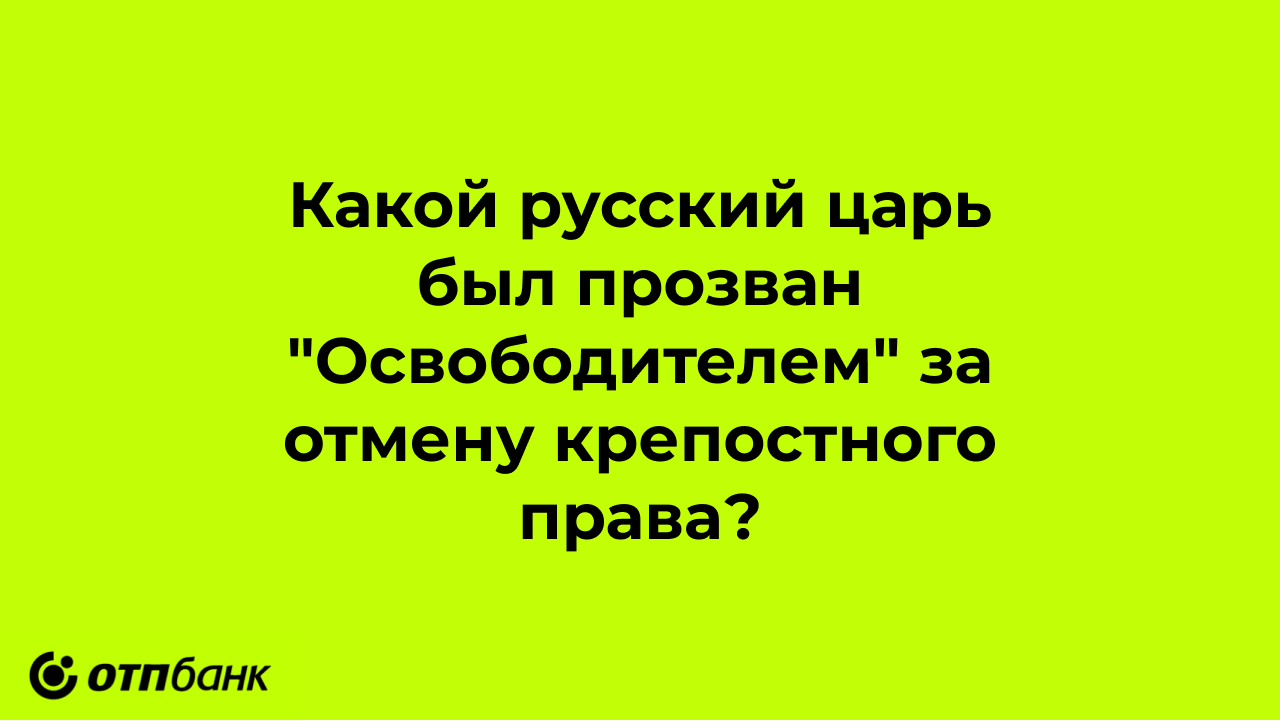
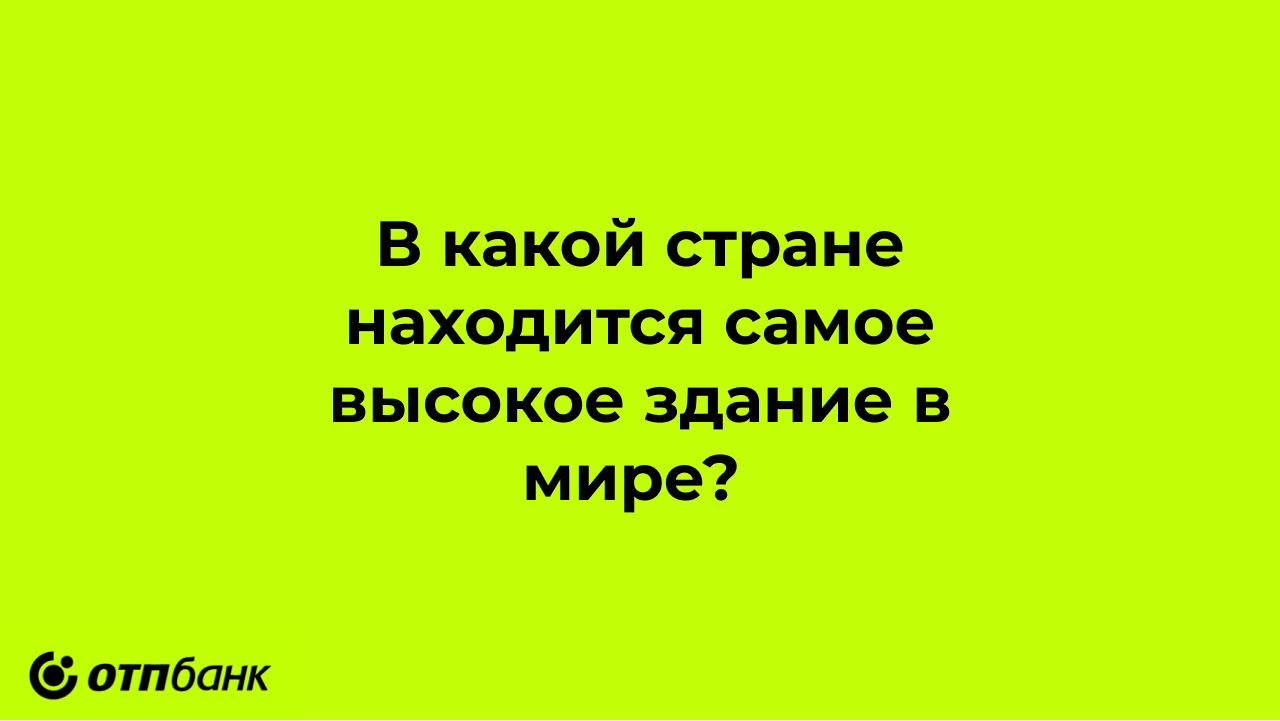
fix comments

Changed region(s): [[0.2188, 0.2441, 0.7812, 0.7628]]

diff --git a/handlers/quiz.py b/handlers/quiz.py
@@ -155,7 +155,7 @@ questions = [
                  image_url=FSInputFile('quizphoto/23.png'),
                  additional_url=FSInputFile('addphoto/23.png')),
     QuizQuestion("В какой стране находится самое высокое здание в мире?",
-                 [("Саудовская Аравия", 0), ("Дубай", 1), ("Китай", 0)],
+                 [("Саудовская Аравия", 0), ("ОАЭ", 1), ("Китай", 0)],
                  image_url=FSInputFile('quizphoto/24.png'),
                  additional_url=FSInputFile('addphoto/24.png')),
     QuizQuestion("Какой предмет хранила говорящая голова из поэмы «Руслан и Людмила»?",
@@ -225,14 +225,14 @@ async def process_step(message: Message, state: FSMContext, current_step: int, n
     else:
         await message.answer("Обрабатываем результаты ⏳", )
         database.record_completion(user_id=message.from_user.id, score=total_score)
-        await message.answer(f"Ваш результат: {total_score}", reply_markup=ReplyKeyboardRemove())
+        await message.answer(f"Ваш результат: {total_score} из 27", reply_markup=ReplyKeyboardRemove())
         # bot = Bot(TOKEN, parse_mode=ParseMode.HTML)
         # await bot.send_chat_action(chat_id=message.chat.id, action='upload_photo')
-        if total_score >= 12:
+        if total_score >= 22:
             await message.answer(f"{html.bold('Воу, а ты знаток!')} \nТак держать 😎")
-        elif 8 <= total_score <= 11:
+        elif 10 <= total_score <= 21:
             await message.answer(f"{html.bold('Очень неплохо!')} \n👍")
-        elif 4 <= total_score <= 7:
+        elif 4 <= total_score <= 9:
             await message.answer(f"{html.bold('Ты можешь лучше!')}")
         elif total_score < 4:
             await message.answer(f"😞")
@@ -244,7 +244,7 @@ async def command_start(message: Message, state: FSMContext) -> None:
     await state.clear()
     await state.set_state(Quiz.step_fio)
     await message.answer(
-        "Команда ОТП, подготовила тест для тебя.",
+        "Команда ОТП Банка подготовила тест для тебя.",
         reply_markup=ReplyKeyboardRemove()
     )
     await message.answer("Но для начала введи твоё ФИО (например, Иванов Иван Иванович):")
